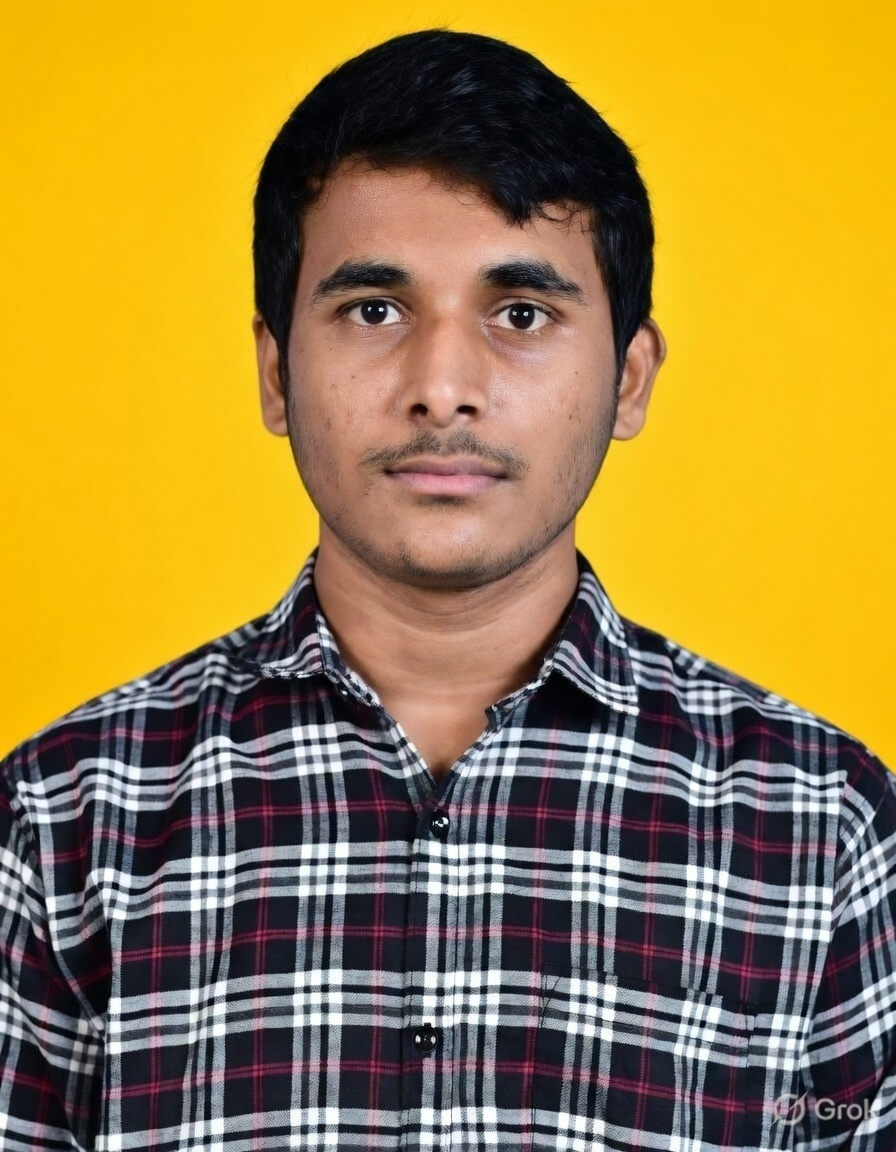
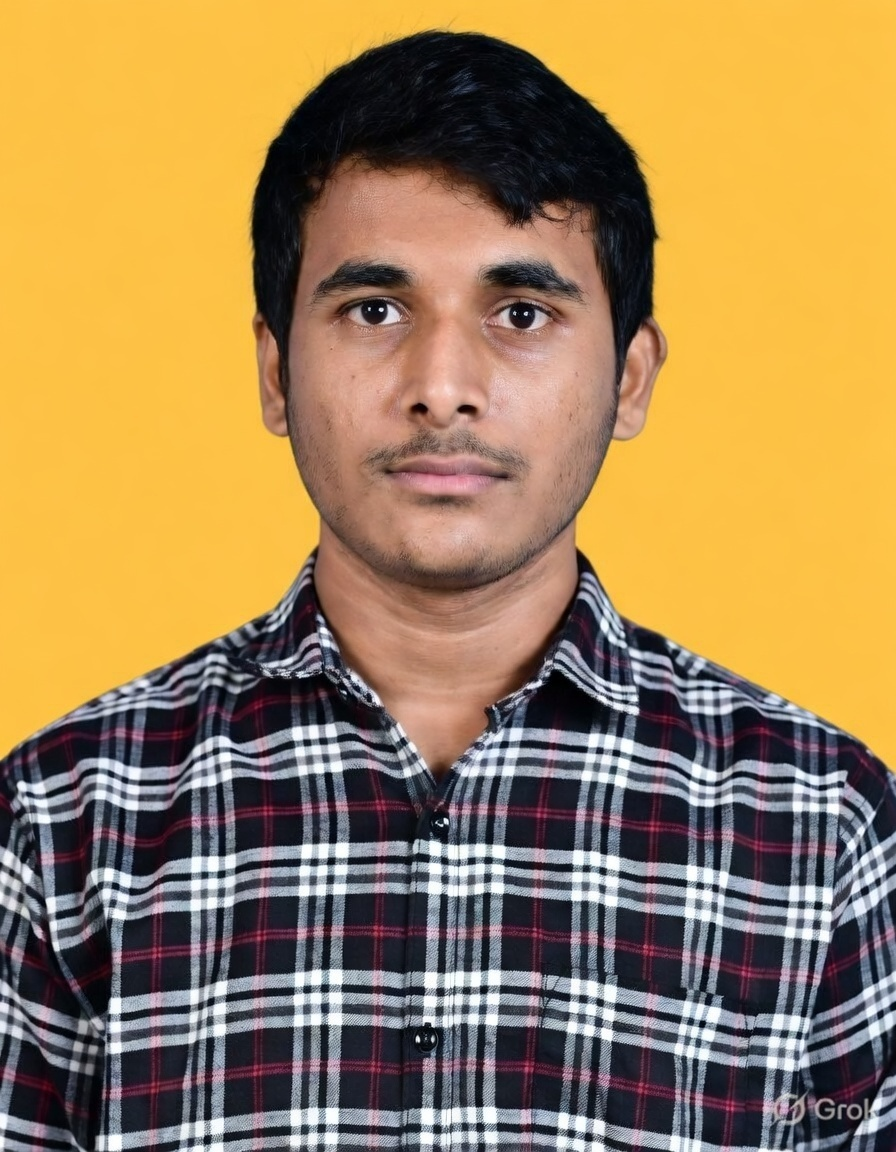
updated inex

diff --git a/index.html b/index.html
@@ -64,8 +64,8 @@
         </div>
         </div>
         <div class="w-[50%] pl-[200px]"><div class="bg-purple-400"> 
-            <div class="bg-yellow-500 mask-radial-farthest-side mask-radial-from-100% mask-radial-at-[30%_30%] bg-[url(/img/mountains.jpg)] "><img 
-  src="image.jpg" class="">
+            <div class="bg-yellow-500 mask-radial-farthest-side mask-radial-from-100% mask-radial-at-[30%_30%] bg-[url(/img/mountains.jpg)] " style="background-color: rgb(253, 193, 69);"><img 
+  src="image.jpg" class="h-[425px]">
         </div>
     </div>
           </div>
